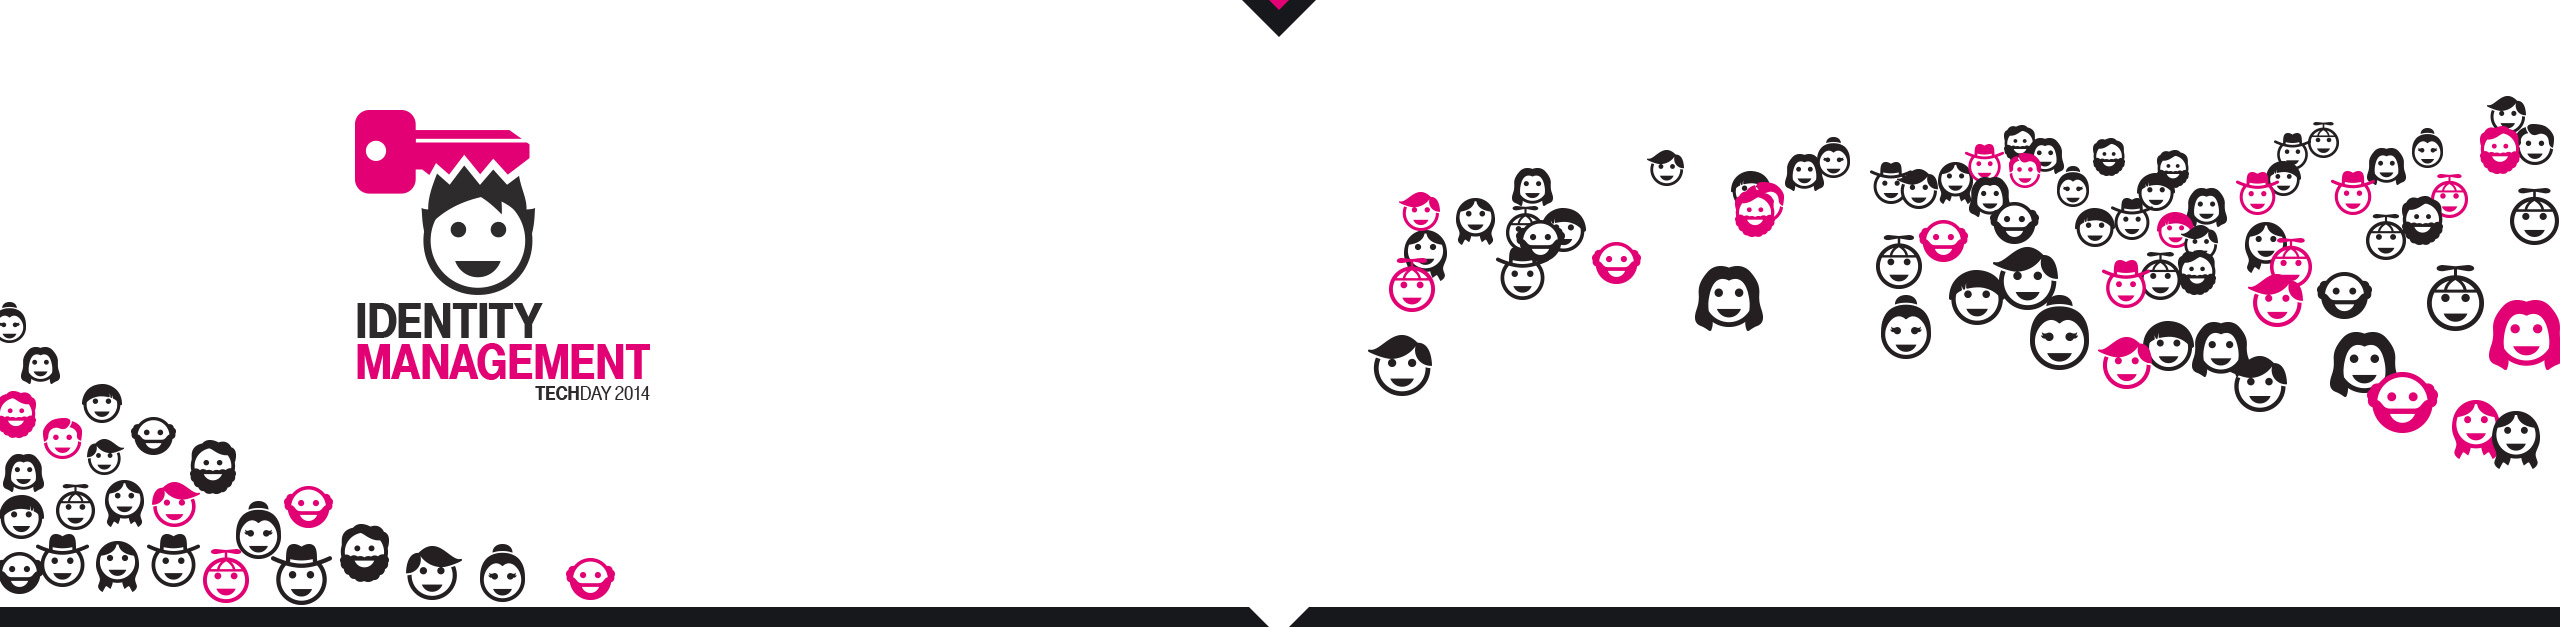
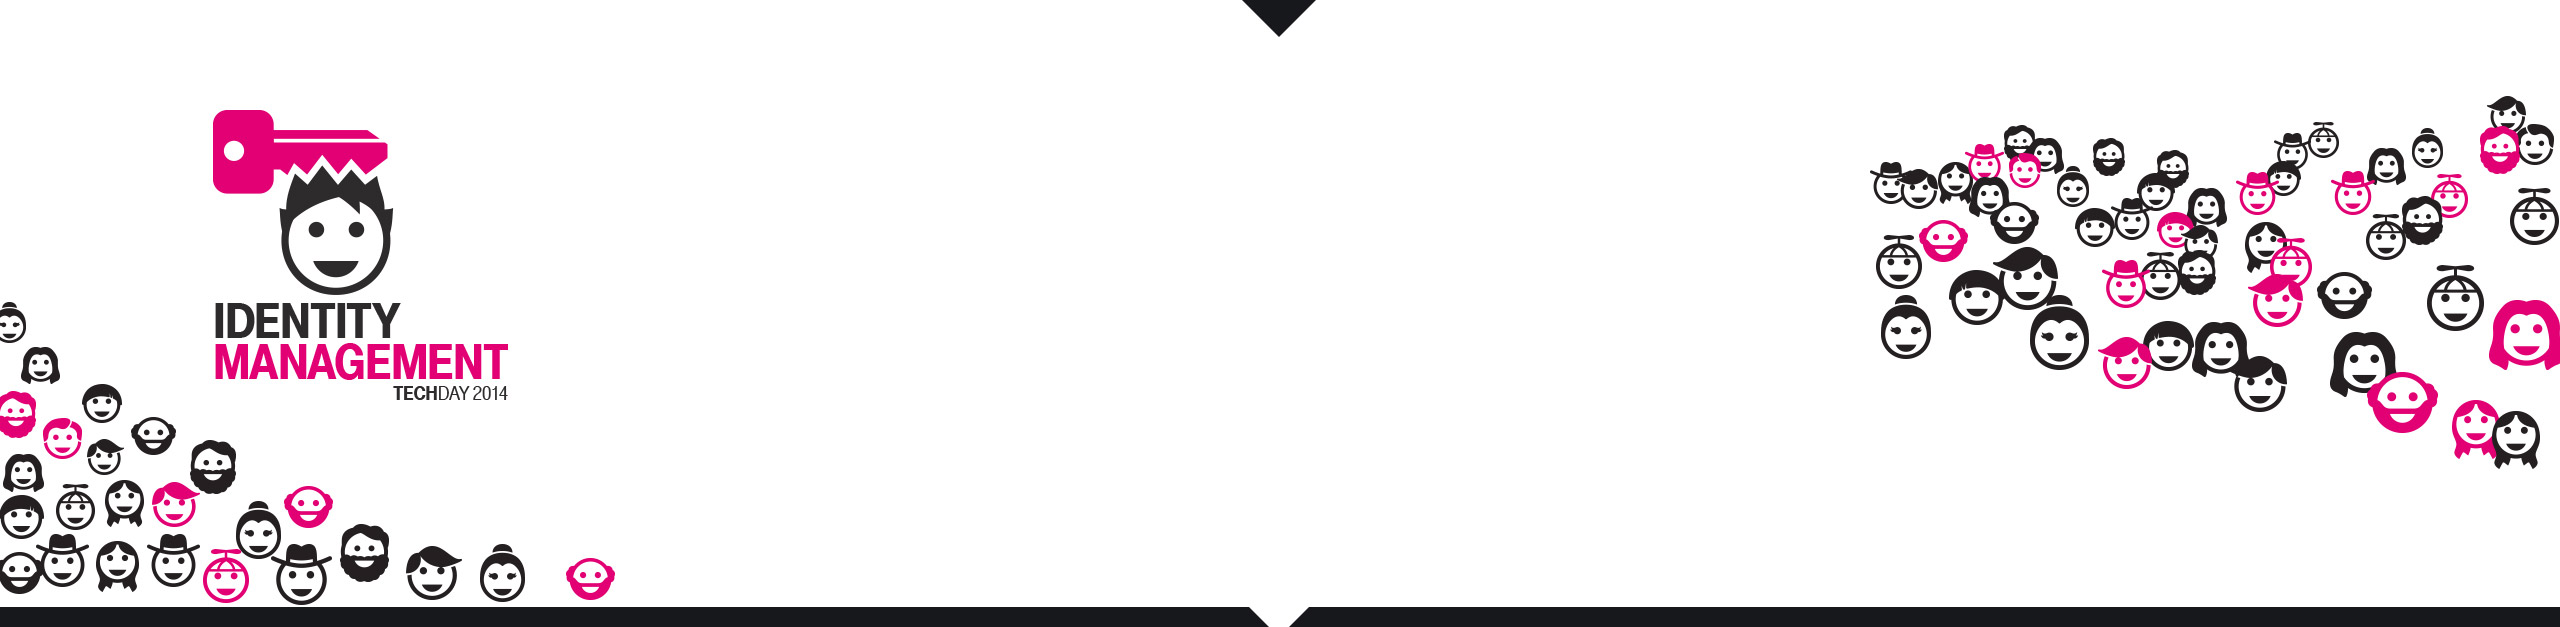
updates slider images

Changed region(s): [[0.0625, 0.1515, 0.25, 0.6364], [0.5312, 0.2121, 0.7188, 0.6364]]

diff --git a/source/stylesheets/site.css.scss b/source/stylesheets/site.css.scss
@@ -1375,7 +1375,7 @@ header {
   @media all and (min-width: 1680px) {
     .content { margin-top: 90px;  }
     //.obj { width: 623px; left: 592px; }
-    .obj { width: 623px;  }
+    .obj { width: 623px; top: 50px;  }
   }
 
 }
